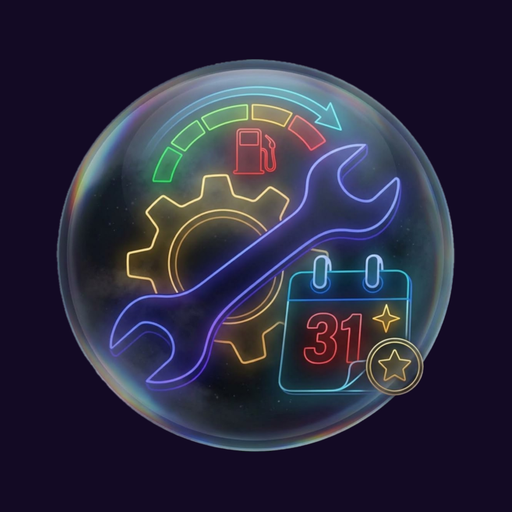
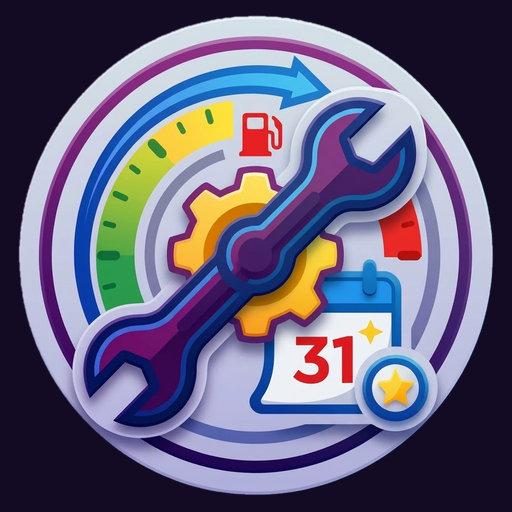
Changes

diff --git a/src/routes/__root.tsx b/src/routes/__root.tsx
@@ -88,7 +88,7 @@ export const Route = createRootRouteWithContext<{ queryClient: QueryClient }>()(
       },
       { rel: "preconnect", href: "https://fonts.googleapis.com" },
       { rel: "stylesheet", href: "https://fonts.googleapis.com/css2?family=Barlow:wght@400;600&family=Barlow+Condensed:wght@600;700&family=JetBrains+Mono:wght@400;600&display=swap" },
-      { rel: "icon", href: "/favicon.png", type: "image/png" }, { rel: "apple-touch-icon", href: "/favicon.png" }, { rel: "manifest", href: "/manifest.webmanifest" },
+      { rel: "icon", href: "/favicon.png?v=20261022", type: "image/png" }, { rel: "apple-touch-icon", href: "/favicon.png?v=20261022" }, { rel: "manifest", href: "/manifest.webmanifest" },
     ],
   }),
   shellComponent: RootShell,

diff --git a/AGENTS.md b/AGENTS.md
@@ -17,3 +17,4 @@
 - Number formatting (decimals per unit) follows the rules in project memory; do not introduce per-field overrides in components.
 - Optional service cycles live inside each device's annual snapshot, and warning/deadline ordering logic lives in a browser-safe pure module so thresholds can be tested without database access.
 - Keep all saved document types intact on load; names, numbers and dates are independent user-owned fields.
+- Derive launcher icons from the supplied source artwork with a background matching the manifest launch color; provide separate safe-area maskable variants so operating-system cropping preserves the artwork.
